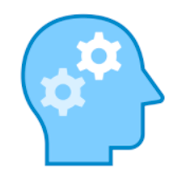
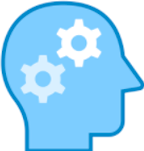
added new images and remove old images

diff --git a/frontend/src/pages/sobre.js b/frontend/src/pages/sobre.js
@@ -22,17 +22,17 @@ export default function Sobre(){
             description: "Capacitar os membros para que estes repassem o conhecimento de forma atenciosa e com segurança."
         },
         {
-            img: "/valor_4.svg",
+            img: "/valor_4.png",
             title: "Empatia",
             description: "Prezamos a diversidade de pessoas e projetos com a responsabilidade de manter um ambiente confortável, acolhedor e divertido para todo."
         },
         {
-            img: "/valor_5.svg",
+            img: "/valor_5.png",
             title: "Orgulho IEEE",
             description: "Sentimento universal de pertencimento no qual os membros prezam de forma apaixonada pelo desenvolvimento da extensão."
         },
         {
-            img: "/valor_6.svg",
+            img: "/valor_6.png",
             title: "Espírito de liderança",
             description: "Desenvolver, influenciar e estimular a inteligência emocional de nossos membros, formando novos líderes."
         }

diff --git a/frontend/src/components/ValueContainer/value.module.scss b/frontend/src/components/ValueContainer/value.module.scss
@@ -5,7 +5,7 @@
 
     width: 330px;
     height: 360px;
-    padding: 2.5rem 1rem;
+    padding: 45px 16px 0 16px;
     border-radius: 20px;
     
     text-align: center;
@@ -13,13 +13,12 @@
 
     border: 1px solid #CED3D9;
 
-    img{
-        width: 36%;
-        border-radius: 50%;
+    img {
+        height: 80px;
     }
 
-    h3{
-        margin: 0.5rem 0;
+    h3 {
+        margin: 16px 0 8px 0;
         color: var(--azul-ramo);
         font-size: 20px;
     }
